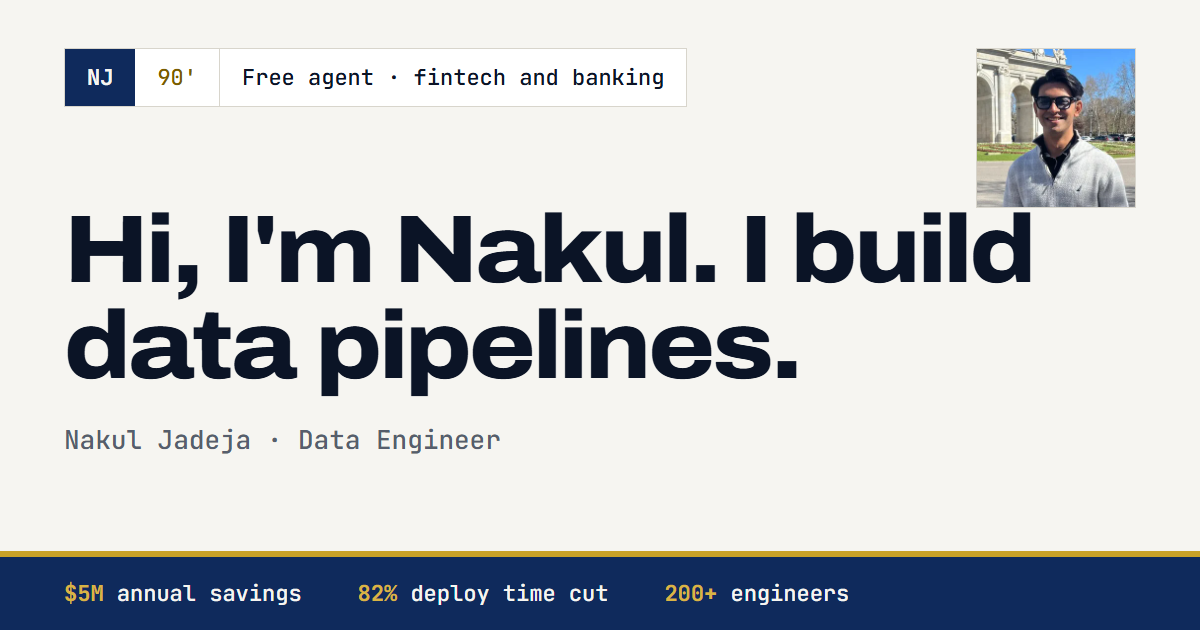
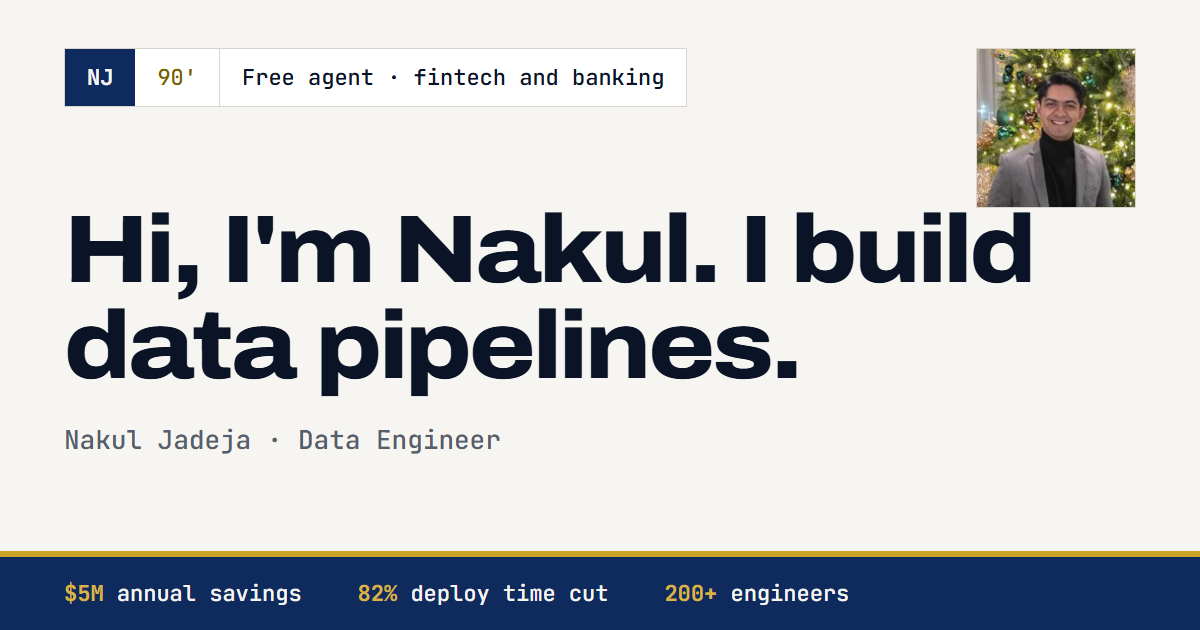
Swap the portrait for a more formal photo

Changed region(s): [[0.8017, 0.0603, 0.9558, 0.3317]]

diff --git a/content/profile.ts b/content/profile.ts
@@ -16,7 +16,7 @@ export const profile = {
   role: "Data Engineer",
   location: "Jersey City, NJ",
   rank: "DE II",
-  portrait: { src: "/images/nakul.webp", alt: "Nakul in Madrid, in front of the Puerta de Alcalá" },
+  portrait: { src: "/images/nakul.webp", alt: "Nakul in a grey blazer and black turtleneck" },
   headline: "Hi, I'm Nakul. I build data pipelines.",
   lead: [
     "I've wrangled data about ships, then oil wells, then internet creators. Money feels like the obvious next step, so I'm looking for a data engineering job in fintech or banking.",

diff --git a/tests/visual.spec.ts b/tests/visual.spec.ts
@@ -10,7 +10,7 @@ test("first viewport", async ({ page }) => {
   await page.goto("/");
   await page.evaluate(() => document.fonts.ready);
   // The portrait has to finish decoding, or it's a coin flip whether it's in the picture.
-  await page.getByRole("img", { name: /Nakul in Madrid/ }).evaluate((image: HTMLImageElement) => image.decode());
+  await page.getByRole("img", { name: /Nakul in a grey blazer/ }).evaluate((image: HTMLImageElement) => image.decode());
   await expect(page).toHaveScreenshot("first-viewport.png", { maxDiffPixelRatio: 0.01 });
 });
 
